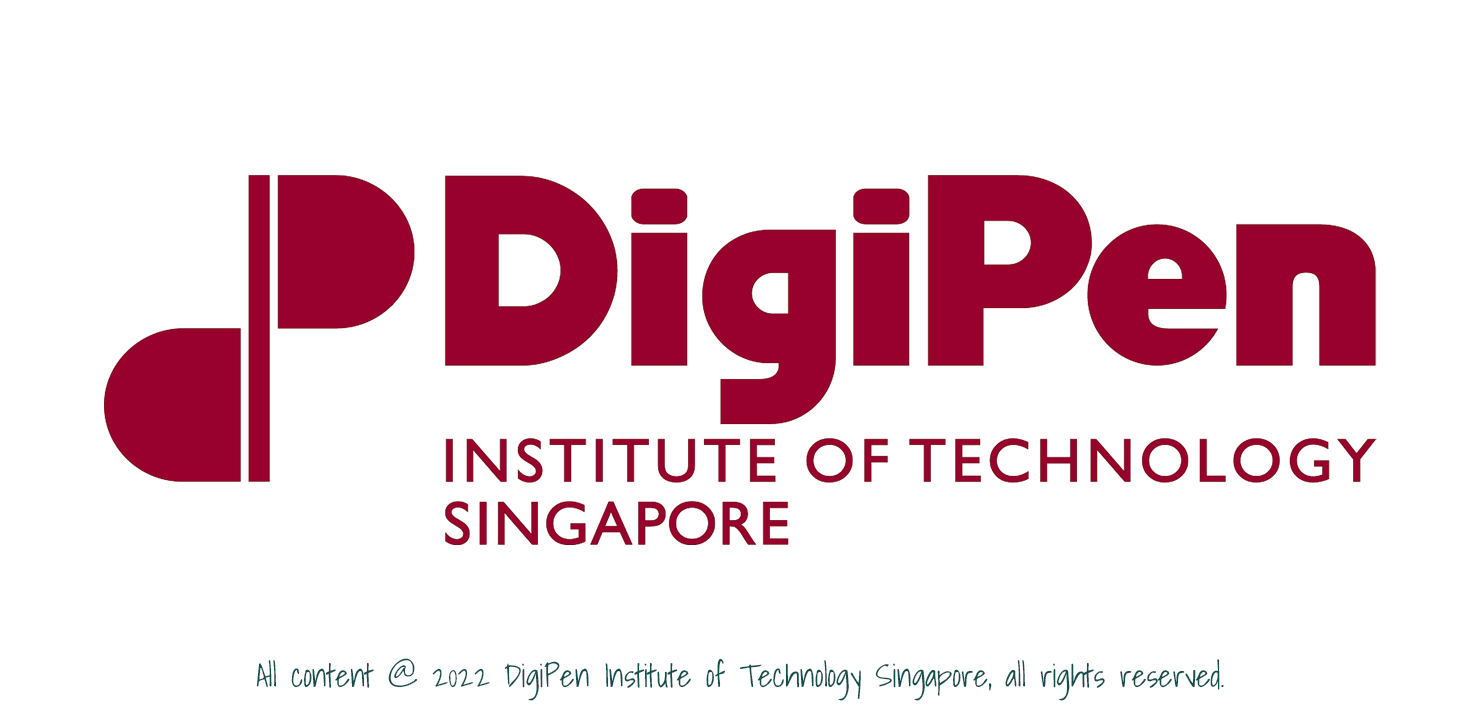
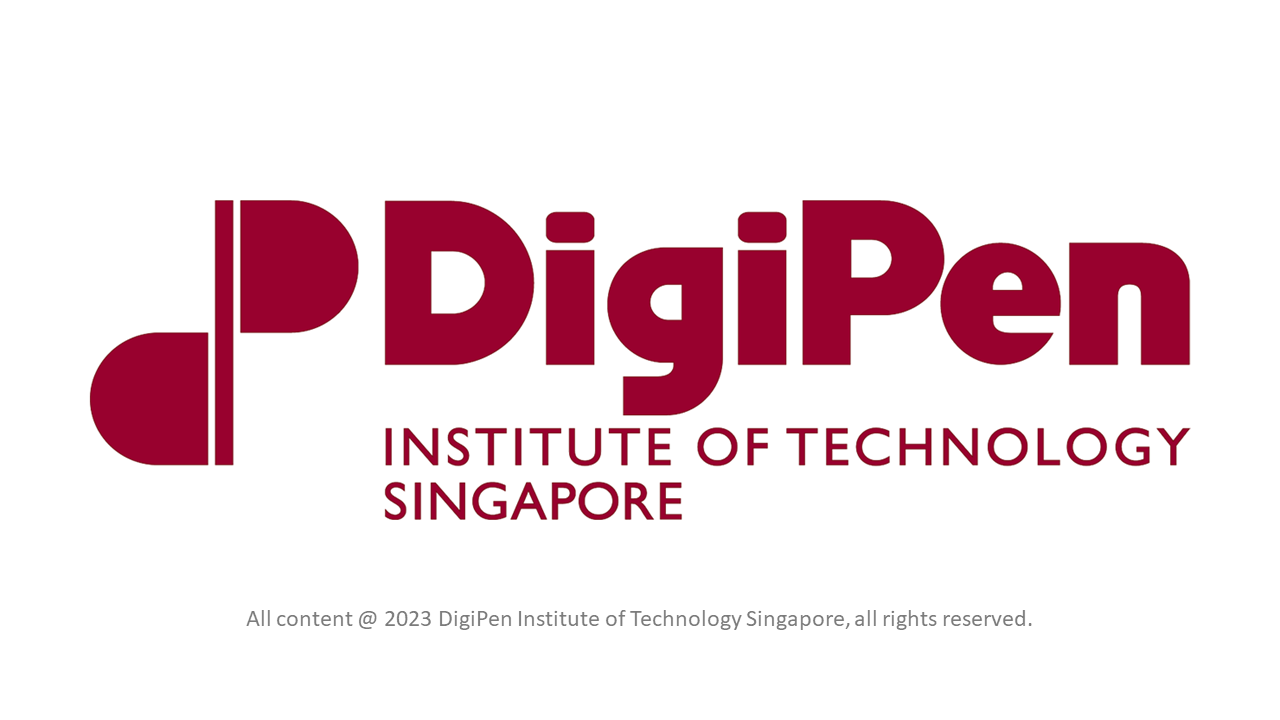
splashscreen

diff --git a/GameProject/Project1/Source/SplashScreen.cpp b/GameProject/Project1/Source/SplashScreen.cpp
@@ -12,16 +12,18 @@ prior written consent of DigiPen Institute of Technology is prohibited.
  */
  /******************************************************************************/
 #include "Main.h"
-#include <iostream>
-#include "Globals.h"
+
 
 
 // ---------------------------------------------------------------------------
-static int debugstate = 0;
-float timer = 0;
-float tint = 0;
-AEGfxVertexList* pMesh = 0;
-AEGfxTexture* splashscreen;
+static float timer = 0;
+static float tint = 0;
+
+static float fadeDuration = 2.0f;;
+static float endTime = 5.f;
+static float fadeoutStart = endTime - fadeDuration;
+static AEGfxVertexList* pMesh = 0;
+static AEGfxTexture* splashscreen;
 /******************************************************************************/
 /*!
 	"Load" function of this state
@@ -33,17 +35,18 @@ AEGfxTexture* splashscreen;
 void GS_SplashScreen_Load(void)
 {
 	AEGfxMeshStart();
-	AEGfxTriAdd(
-		-0.5f, -0.5f, 0x88880808, 0.0f, 0.0f,
-		0.5f, -0.5f, 0x88880808, 0.0f, 0.0f,
-		0.5f, 0.5f, 0x88880808, 0.0f, 0.0f);
 
-	AEGfxTriAdd(
-		-0.5f, -0.5f, 0x88880808, 0.0f, 0.0f,
-		-0.5f, 0.5f, 0x88880808, 0.0f, 0.0f,
-		0.5f, 0.5f, 0x88880808, 0.0f, 0.0f);
+	AEGfxTriAdd(0.5f, -0.5f, 0xFFFF00FF, 1.0f, 1.0f,
+		-0.5f, -0.5f, 0xFFFFFF00, 0.0f, 1.0f,
+		0.5f, 0.5f, 0xFF00FFFF, 1.0f, 0.0f);
+
+	AEGfxTriAdd(-0.5f, -0.5f, 0xFFFFFFFF, 0.0f, 1.0f,
+		-0.5f, 0.5f, 0xFFFFFFFF, 0.0f, 0.0f,
+		0.5f, 0.5f, 0xFFFFFFFF, 1.0f, 0.0f);
 	pMesh = AEGfxMeshEnd();
 
+	splashscreen = AEGfxTextureLoad("Assets/MainMenu/digipen.png");
+	
 	
 }
 
@@ -56,8 +59,7 @@ void GS_SplashScreen_Load(void)
 /******************************************************************************/
 void GS_SplashScreen_Init(void)
 {
-	AEGfxTexture* splashscreen = AEGfxTextureLoad("Assets/MainMenu/digipen.png");
-	//AEGfxTextureSet(splashscreen, 1, 1);
+	
 }
 
 
@@ -71,8 +73,19 @@ void GS_SplashScreen_Init(void)
 void GS_SplashScreen_Update(void)
 {
 	timer += g_dt;
-	tint += g_dt;
-	if(timer > 2.f)
+
+	if (timer < fadeDuration) {
+		tint = timer / fadeDuration;
+	}
+	else {
+		tint = 1;
+	}
+	if (timer > fadeoutStart) // Fade time
+	{
+		tint = endTime/2 - timer/ fadeDuration;
+	}
+
+	if(timer > endTime) // End time
 	{
 		gGameStateNext = GS_MAINMENU;
 		return;
@@ -89,38 +102,19 @@ void GS_SplashScreen_Update(void)
 /******************************************************************************/
 void GS_SplashScreen_Draw(void)
 {
-	AEGfxSetBackgroundColor(0.0f, 0.0f, 0.0f);
 	AEGfxSetRenderMode(AE_GFX_RM_TEXTURE);
-	AEGfxSetTintColor(1.0f, 1.0f, 1.0f, tint);
+	AEGfxSetTintColor(1.0f, 1.0f, 1.0f, 1.0f);
 	AEGfxSetBlendMode(AE_GFX_BM_BLEND);
-	AEGfxSetTransparency(0.5f);
+	AEGfxSetTransparency(tint);
 	AEGfxTextureSet(splashscreen, 0, 0);
-	AEMtx33 scale, rot, trans, transform;
-	AEMtx33Scale(&scale, 5, 5);
-	AEMtx33Rot(&rot, 0);
-	AEMtx33Trans(&trans, 0, 0);
-	AEMtx33Concat(&transform, &rot, &scale);
-	AEMtx33Concat(&transform, &trans, &transform);
+	AEMtx33 scale, transform;
+	AEMtx33Scale(&scale, 1600, 900);
+	AEMtx33Rot(&transform, 0);
+	AEMtx33Concat(&transform, &transform, &scale);
 	AEGfxSetTransform(transform.m);
 	AEGfxMeshDraw(pMesh, AE_GFX_MDM_TRIANGLES);
 
-	//Exit/////////////////////////////////////////
 
-	
-	if (debugstate == 1)
-	{
-		AEGfxSetBlendMode(AE_GFX_BM_BLEND);
-
-		char debug[20] = "Debug Screen";
-
-		char mouse_xy_buffer[50] = " "; // buffer
-		AEGfxPrint(1, debug, -0.99f, 0.90f, 1.5f, 1.0f, 1.0f, 1.0f);
-		sprintf_s(mouse_xy_buffer, "Mouse Position X: %.2f", mouseX);
-		AEGfxPrint(1, mouse_xy_buffer, -0.99f, 0.76f, 1.0f, 1.0f, 1.0f, 1.0f);
-		sprintf_s(mouse_xy_buffer, "Mouse Position Y: %.2f", mouseY);
-		AEGfxPrint(1, mouse_xy_buffer, -0.99f, 0.71f, 1.0f, 1.0f, 1.0f, 1.0f);
-	}
-	
 }
 
 /******************************************************************************/
@@ -131,8 +125,7 @@ void GS_SplashScreen_Draw(void)
 /******************************************************************************/
 void GS_SplashScreen_Free(void)
 {
-	AEGfxMeshFree(pMesh);
-	//AEGfxTextureUnload(splashscreen);
+
 }
 
 /******************************************************************************/
@@ -145,6 +138,7 @@ void GS_SplashScreen_Free(void)
 void GS_SplashScreen_Unload(void)
 {
 
-	
+	AEGfxMeshFree(pMesh);
+	AEGfxTextureUnload(splashscreen);
 	
 }
